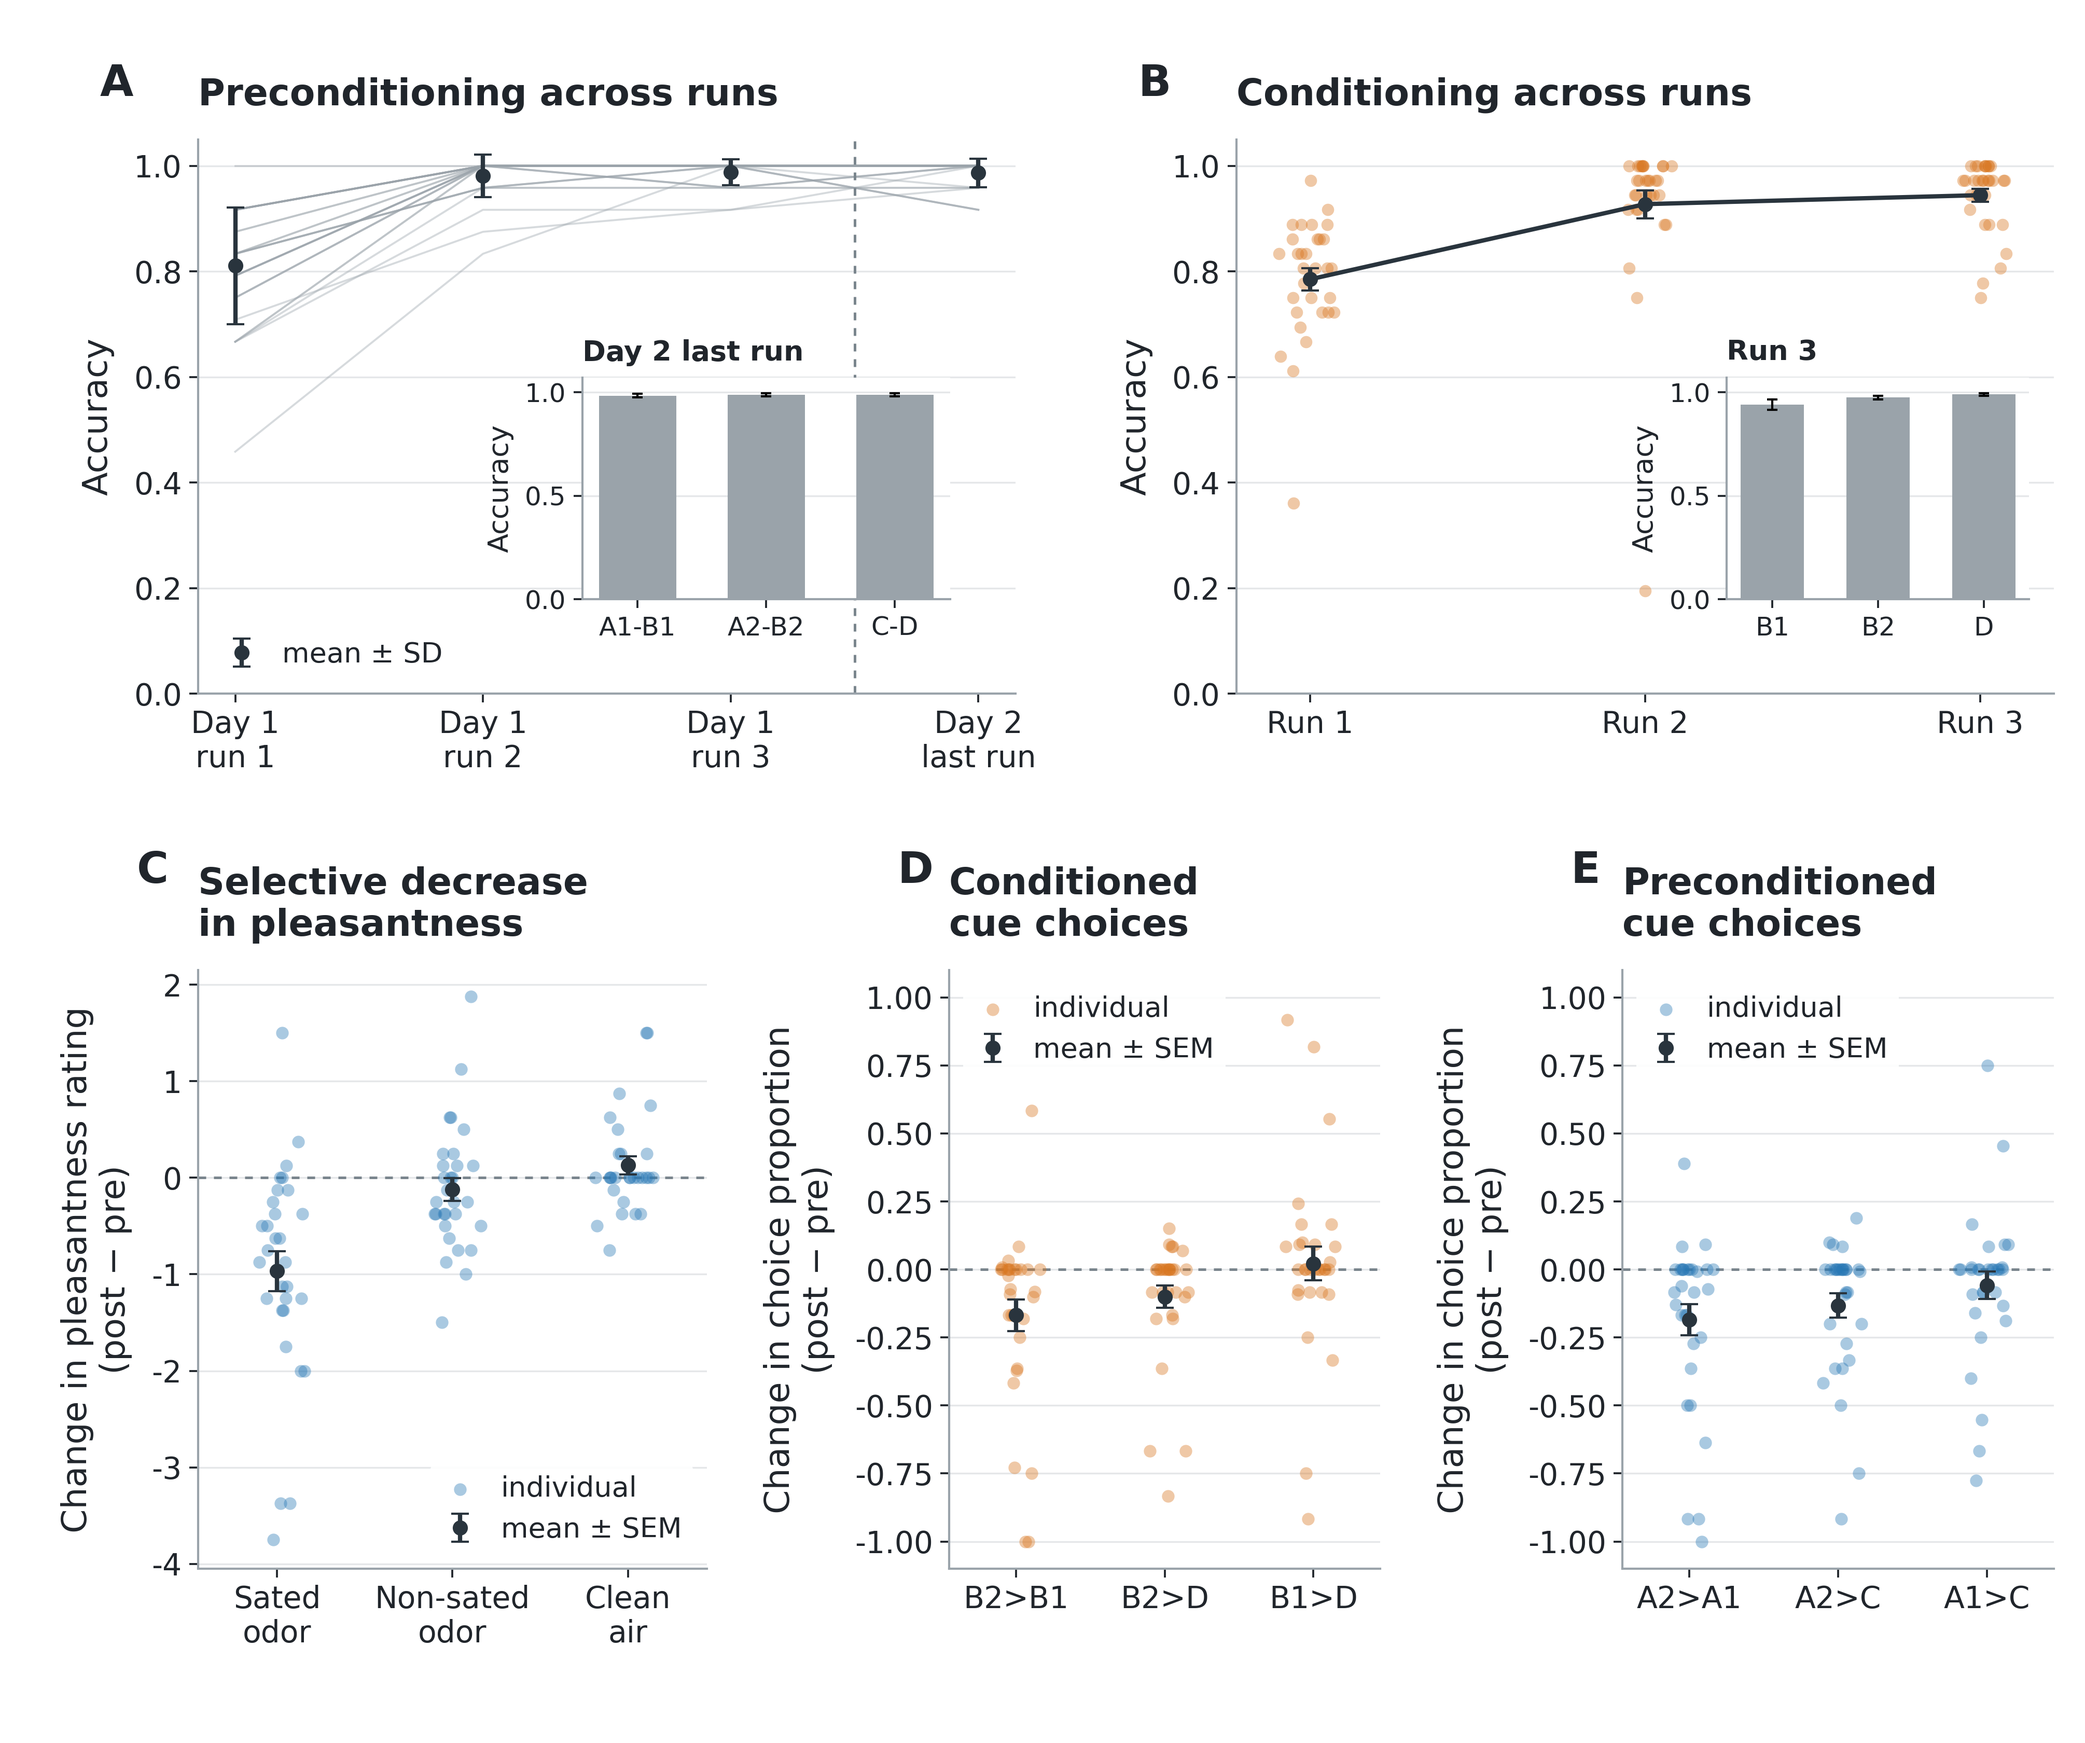
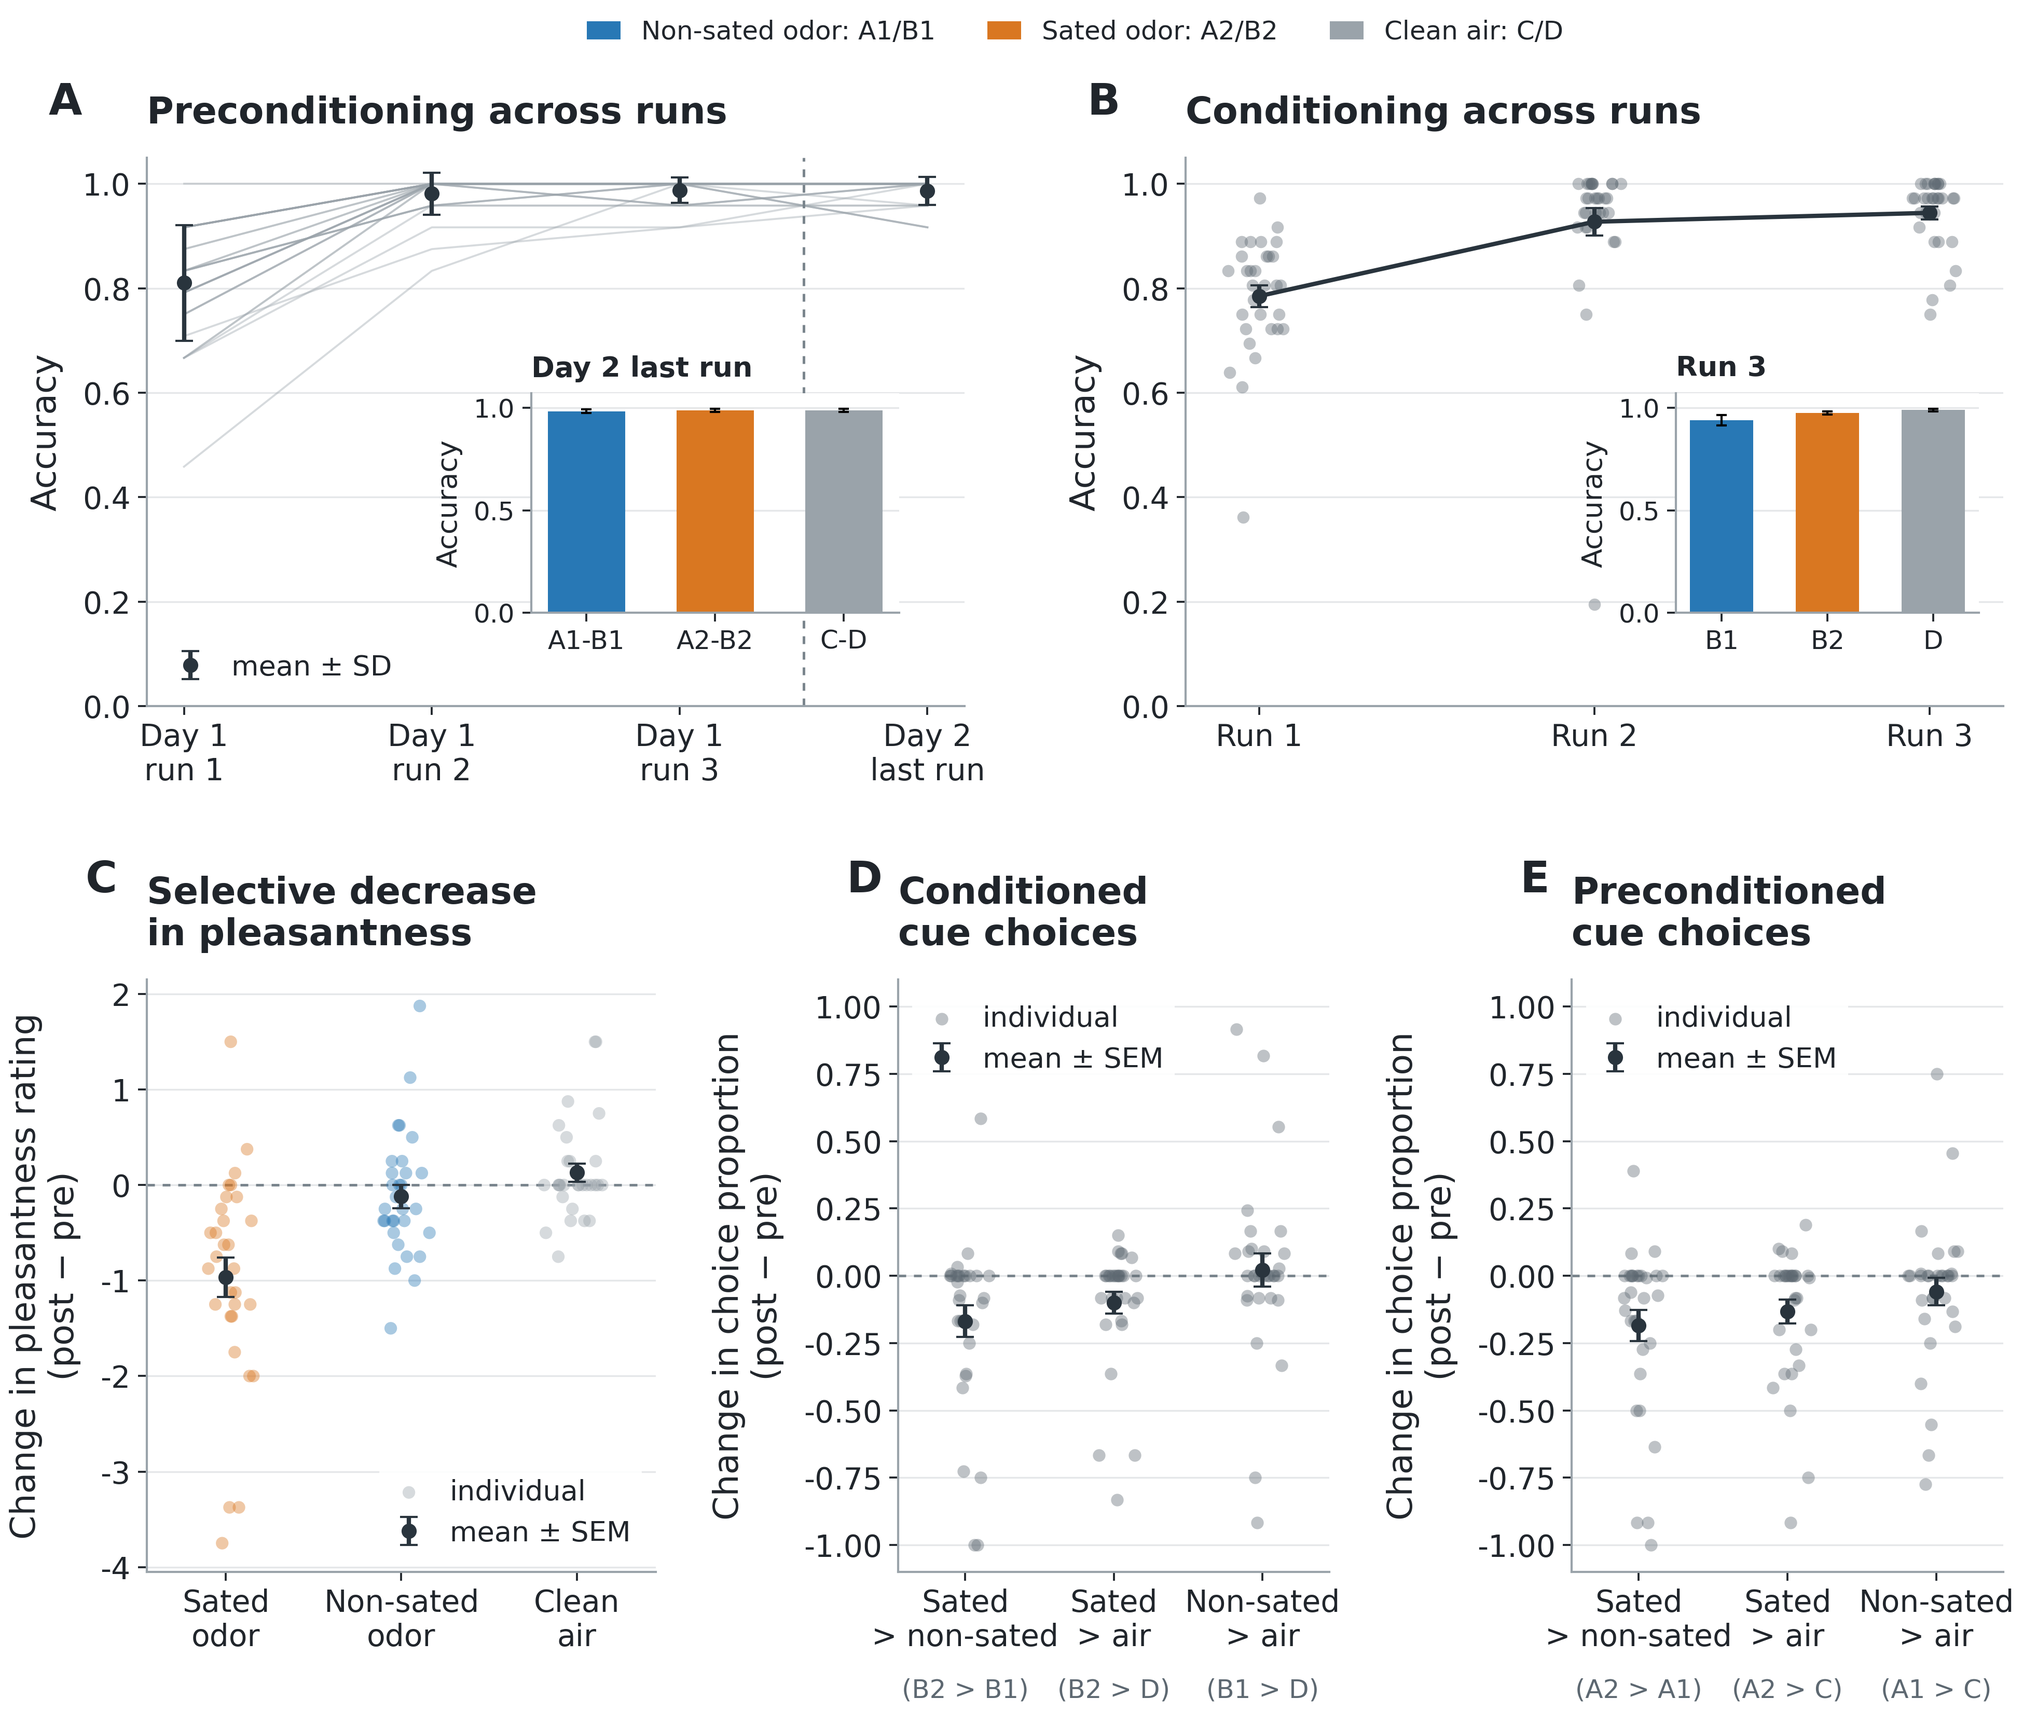
Clarify behavioral cue comparisons and outcome colors
Add descriptive choice labels with original cue codes and a consistent outcome key for the insets and pleasantness panel. Use neutral comparison points and trim exported margins while preserving subject exclusions and all computed values.

diff --git a/scripts_behavior/make_behavior_figure.py b/scripts_behavior/make_behavior_figure.py
@@ -17,6 +17,12 @@ and probe analyses retain the notebooks' missing-response/RT filtering rules.
 Probe changes are paired post-minus-pre proportions, with A2/B2 choices
 oriented against A1/B1 and A3/B3 relabeled C/D. The generator does not read
 the Illustrator file, existing panel PDFs, or cached group-level summaries.
+
+Outcome colors are local to this figure: blue = non-sated (A1/B1), orange =
+sated (A2/B2), gray = clean air (C/D). They do not encode learning route.
+Panels D/E use neutral points and descriptive comparison labels, retaining
+the analysis cue codes underneath. Negative changes indicate reduced choice
+of the cue named before ">", independently of stimulus presentation order.
 """
 
 from __future__ import annotations
@@ -35,12 +41,13 @@ import matplotlib
 matplotlib.use("Agg")
 
 import matplotlib.pyplot as plt
+from matplotlib.patches import Patch
 import numpy as np
 import pandas as pd
 
 sys.path.insert(0, str(Path(__file__).resolve().parents[1]))
 from figure_style import (
-    DIRECT_COLOR, INFERRED_COLOR, INSET_LABEL_SIZE, REFERENCE_COLOR,
+    INSET_LABEL_SIZE, INSET_TICK_SIZE, MUTED_TEXT_COLOR, REFERENCE_COLOR,
     SPINE_COLOR, SUMMARY_COLOR, add_panel_header, configure_matplotlib, style_axis,
 )
 
@@ -49,6 +56,9 @@ DEFAULT_SKIP_SUBS = ("sub-19", "sub-31", "sub-33")
 PAIR_GROUPS = {1: "A1-B1", 4: "A1-B1", 2: "A2-B2", 5: "A2-B2", 3: "C-D", 6: "C-D"}
 CONDITIONED_CHOICES = ("B2>B1", "B2>D", "B1>D")
 PRECONDITIONED_CHOICES = ("A2>A1", "A2>C", "A1>C")
+# Odor-number codes match pleasantness_summary.csv and the cue-odor mappings.
+OUTCOME_COLORS = {0: "#9AA3AA", 1: "#2878B5", 2: "#D97721"}
+COMPARISON_LABELS = ("Sated\n> non-sated", "Sated\n> air", "Non-sated\n> air")
 
 
 def _load_subjects(
@@ -166,10 +176,14 @@ def _summary(data: pd.DataFrame, order: tuple) -> pd.DataFrame:
     return data.groupby("category")["value"].agg(["count", "mean", "std", "sem"]).loc[list(order)]
 
 
-def _bar_inset(ax: plt.Axes, data: pd.DataFrame, order: tuple, title: str) -> None:
+def _bar_inset(
+    ax: plt.Axes, data: pd.DataFrame, order: tuple, title: str,
+    *, outcome_order: tuple[int, ...],
+) -> None:
     summary = _summary(data, order)
     x = np.arange(len(order))
-    ax.bar(x, summary["mean"], yerr=summary["sem"], width=0.6, color=SPINE_COLOR,
+    ax.bar(x, summary["mean"], yerr=summary["sem"], width=0.6,
+           color=[OUTCOME_COLORS[odor] for odor in outcome_order],
            capsize=2.5, error_kw={"elinewidth": 1})
     ax.set(xticks=x, xticklabels=order, ylim=(0, 1.07), yticks=[0, 0.5, 1], ylabel="Accuracy")
     ax.set_title(title, loc="left", fontsize=INSET_LABEL_SIZE, pad=8)
@@ -179,12 +193,13 @@ def _bar_inset(ax: plt.Axes, data: pd.DataFrame, order: tuple, title: str) -> No
 def _plot_changes(
     ax: plt.Axes, data: pd.DataFrame, order: tuple, labels: tuple,
     title: str, ylabel: str, ylim: tuple[float, float], *, legend_loc: str = "upper left",
-    color: str = INFERRED_COLOR,
+    colors: dict | None = None,
 ) -> None:
     summary = _summary(data, order)
     positions = data["category"].map({label: i for i, label in enumerate(order)}).to_numpy(dtype=float)
     jitter = np.random.default_rng(0).normal(0, 0.08, size=len(data))
-    ax.scatter(positions + jitter, data["value"], color=color, alpha=0.4,
+    point_colors = data["category"].map(colors) if colors is not None else MUTED_TEXT_COLOR
+    ax.scatter(positions + jitter, data["value"], color=point_colors, alpha=0.4,
                s=34, linewidths=0, label="individual", zorder=2)
     ax.errorbar(np.arange(len(order)), summary["mean"], yerr=summary["sem"],
                 fmt="o", color=SUMMARY_COLOR, markersize=6, capsize=4,
@@ -198,9 +213,9 @@ def _plot_changes(
 
 def make_figure(data: dict[str, pd.DataFrame]) -> plt.Figure:
     configure_matplotlib()
-    fig = plt.figure(figsize=(13.4, 11.2), facecolor="white")
-    outer = fig.add_gridspec(2, 1, left=0.095, right=0.985, bottom=0.10,
-                            top=0.92, hspace=0.48, height_ratios=(1, 1.08))
+    fig = plt.figure(figsize=(13.4, 11.8), facecolor="white")
+    outer = fig.add_gridspec(2, 1, left=0.095, right=0.985, bottom=0.14,
+                            top=0.91, hspace=0.48, height_ratios=(1, 1.08))
     top = outer[0].subgridspec(1, 2, wspace=0.27)
     bottom = outer[1].subgridspec(1, 3, width_ratios=(1.18, 1, 1), wspace=0.53)
     axes = [fig.add_subplot(top[0, 0]), fig.add_subplot(top[0, 1])]
@@ -218,32 +233,51 @@ def make_figure(data: dict[str, pd.DataFrame]) -> plt.Figure:
     a.set_title("Preconditioning across runs", loc="left", pad=16)
     a.legend(loc="lower left")
     _bar_inset(a.inset_axes([0.47, 0.17, 0.45, 0.40]), data["A inset"],
-               ("A1-B1", "A2-B2", "C-D"), "Day 2 last run")
+               ("A1-B1", "A2-B2", "C-D"), "Day 2 last run", outcome_order=(1, 2, 0))
 
     summary = _summary(data["B"], (1, 2, 3))
     jitter = np.random.default_rng(0).normal(0, 0.04, size=len(data["B"]))
-    b.scatter(data["B"]["category"] + jitter, data["B"]["value"], color=DIRECT_COLOR,
+    b.scatter(data["B"]["category"] + jitter, data["B"]["value"], color=MUTED_TEXT_COLOR,
                alpha=0.4, s=32, linewidths=0)
     b.errorbar([1, 2, 3], summary["mean"], yerr=summary["sem"], fmt="o-",
                color=SUMMARY_COLOR, markersize=6, capsize=4, linewidth=2)
     b.set(xticks=[1, 2, 3], xticklabels=["Run 1", "Run 2", "Run 3"],
           ylim=(0, 1.05), xlim=(0.78, 3.22), ylabel="Accuracy")
     b.set_title("Conditioning across runs", loc="left", pad=16)
-    _bar_inset(b.inset_axes([0.60, 0.17, 0.37, 0.40]), data["B inset"], ("B1", "B2", "D"), "Run 3")
+    _bar_inset(b.inset_axes([0.60, 0.17, 0.37, 0.40]), data["B inset"],
+               ("B1", "B2", "D"), "Run 3", outcome_order=(1, 2, 0))
 
     _plot_changes(c, data["C"], (2, 1, 0), ("Sated\nodor", "Non-sated\nodor", "Clean\nair"),
                   "Selective decrease\nin pleasantness", "Change in pleasantness rating\n(post − pre)",
-                  (-4.05, 2.15), legend_loc="lower right")
+                  (-4.05, 2.15), legend_loc="lower right", colors=OUTCOME_COLORS)
     for ax, letter, order, title in (
         (d, "D", CONDITIONED_CHOICES, "Conditioned\ncue choices"),
         (e, "E", PRECONDITIONED_CHOICES, "Preconditioned\ncue choices"),
     ):
-        _plot_changes(ax, data[letter], order, order, title,
-                      "Change in choice proportion\n(post − pre)", (-1.1, 1.1),
-                      color=DIRECT_COLOR if letter == "D" else INFERRED_COLOR)
+        _plot_changes(ax, data[letter], order, COMPARISON_LABELS, title,
+                      "Change in choice proportion\n(post − pre)", (-1.1, 1.1))
+        # Keep the original codes as a secondary label below the two-line
+        # meaning, with identical contrast order across learning routes.
+        for x, choice in enumerate(order):
+            ax.annotate(
+                f"({choice.replace('>', ' > ')})",
+                xy=(x, 0), xycoords=ax.get_xaxis_transform(),
+                xytext=(0, -49), textcoords="offset points",
+                ha="center", va="top", fontsize=INSET_TICK_SIZE,
+                color=MUTED_TEXT_COLOR, annotation_clip=False,
+            )
     for ax, letter in zip(axes, "ABCDE"):
         style_axis(ax)
         add_panel_header(ax, letter, ax.get_title(loc="left"))
+    fig.legend(
+        handles=[
+            Patch(facecolor=OUTCOME_COLORS[1], label="Non-sated odor: A1/B1"),
+            Patch(facecolor=OUTCOME_COLORS[2], label="Sated odor: A2/B2"),
+            Patch(facecolor=OUTCOME_COLORS[0], label="Clean air: C/D"),
+        ],
+        loc="upper center", bbox_to_anchor=(0.54, 0.998), ncol=3,
+        frameon=False, fontsize=12, columnspacing=2,
+    )
     return fig
 
 
@@ -268,7 +302,8 @@ def main() -> None:
     output_prefix.parent.mkdir(parents=True, exist_ok=True)
     for extension in dict.fromkeys(args.formats):
         output_path = output_prefix.with_suffix(f".{extension}")
-        fig.savefig(output_path, dpi=args.dpi, facecolor="white")
+        fig.savefig(output_path, dpi=args.dpi, facecolor="white",
+                    bbox_inches="tight", pad_inches=0.06)
         print(f"Saved: {output_path}")
     plt.close(fig)
 
